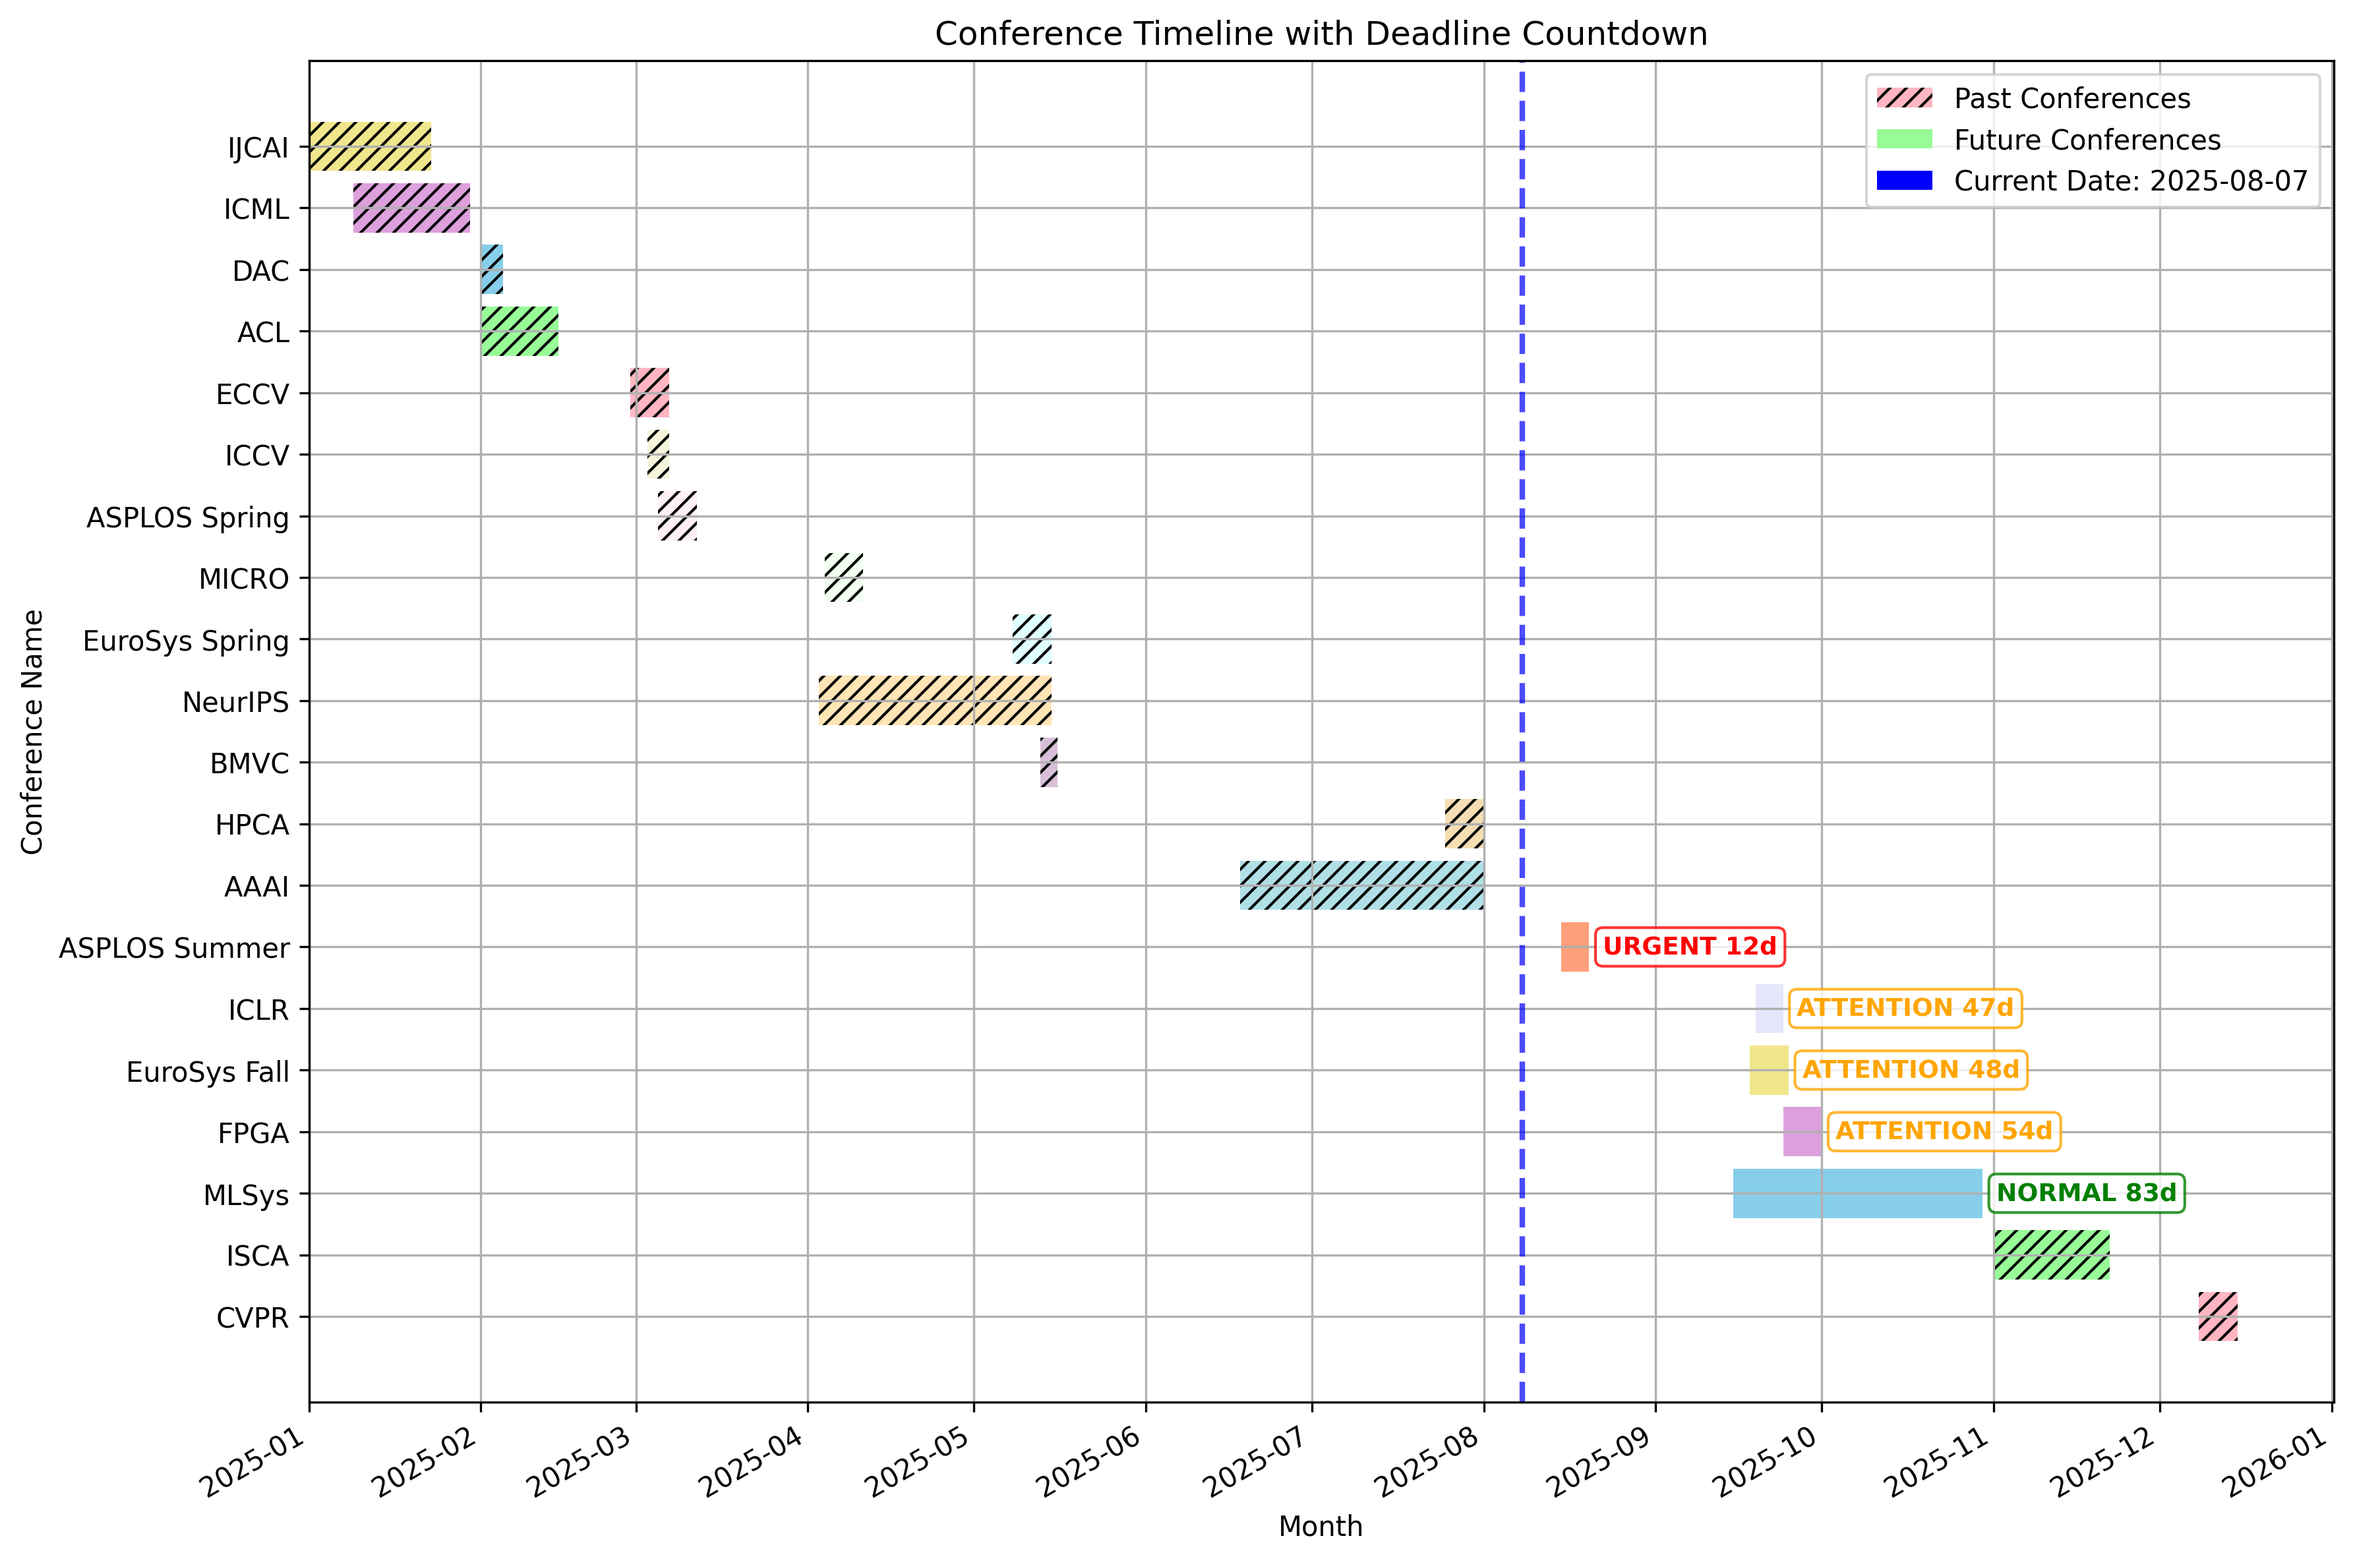
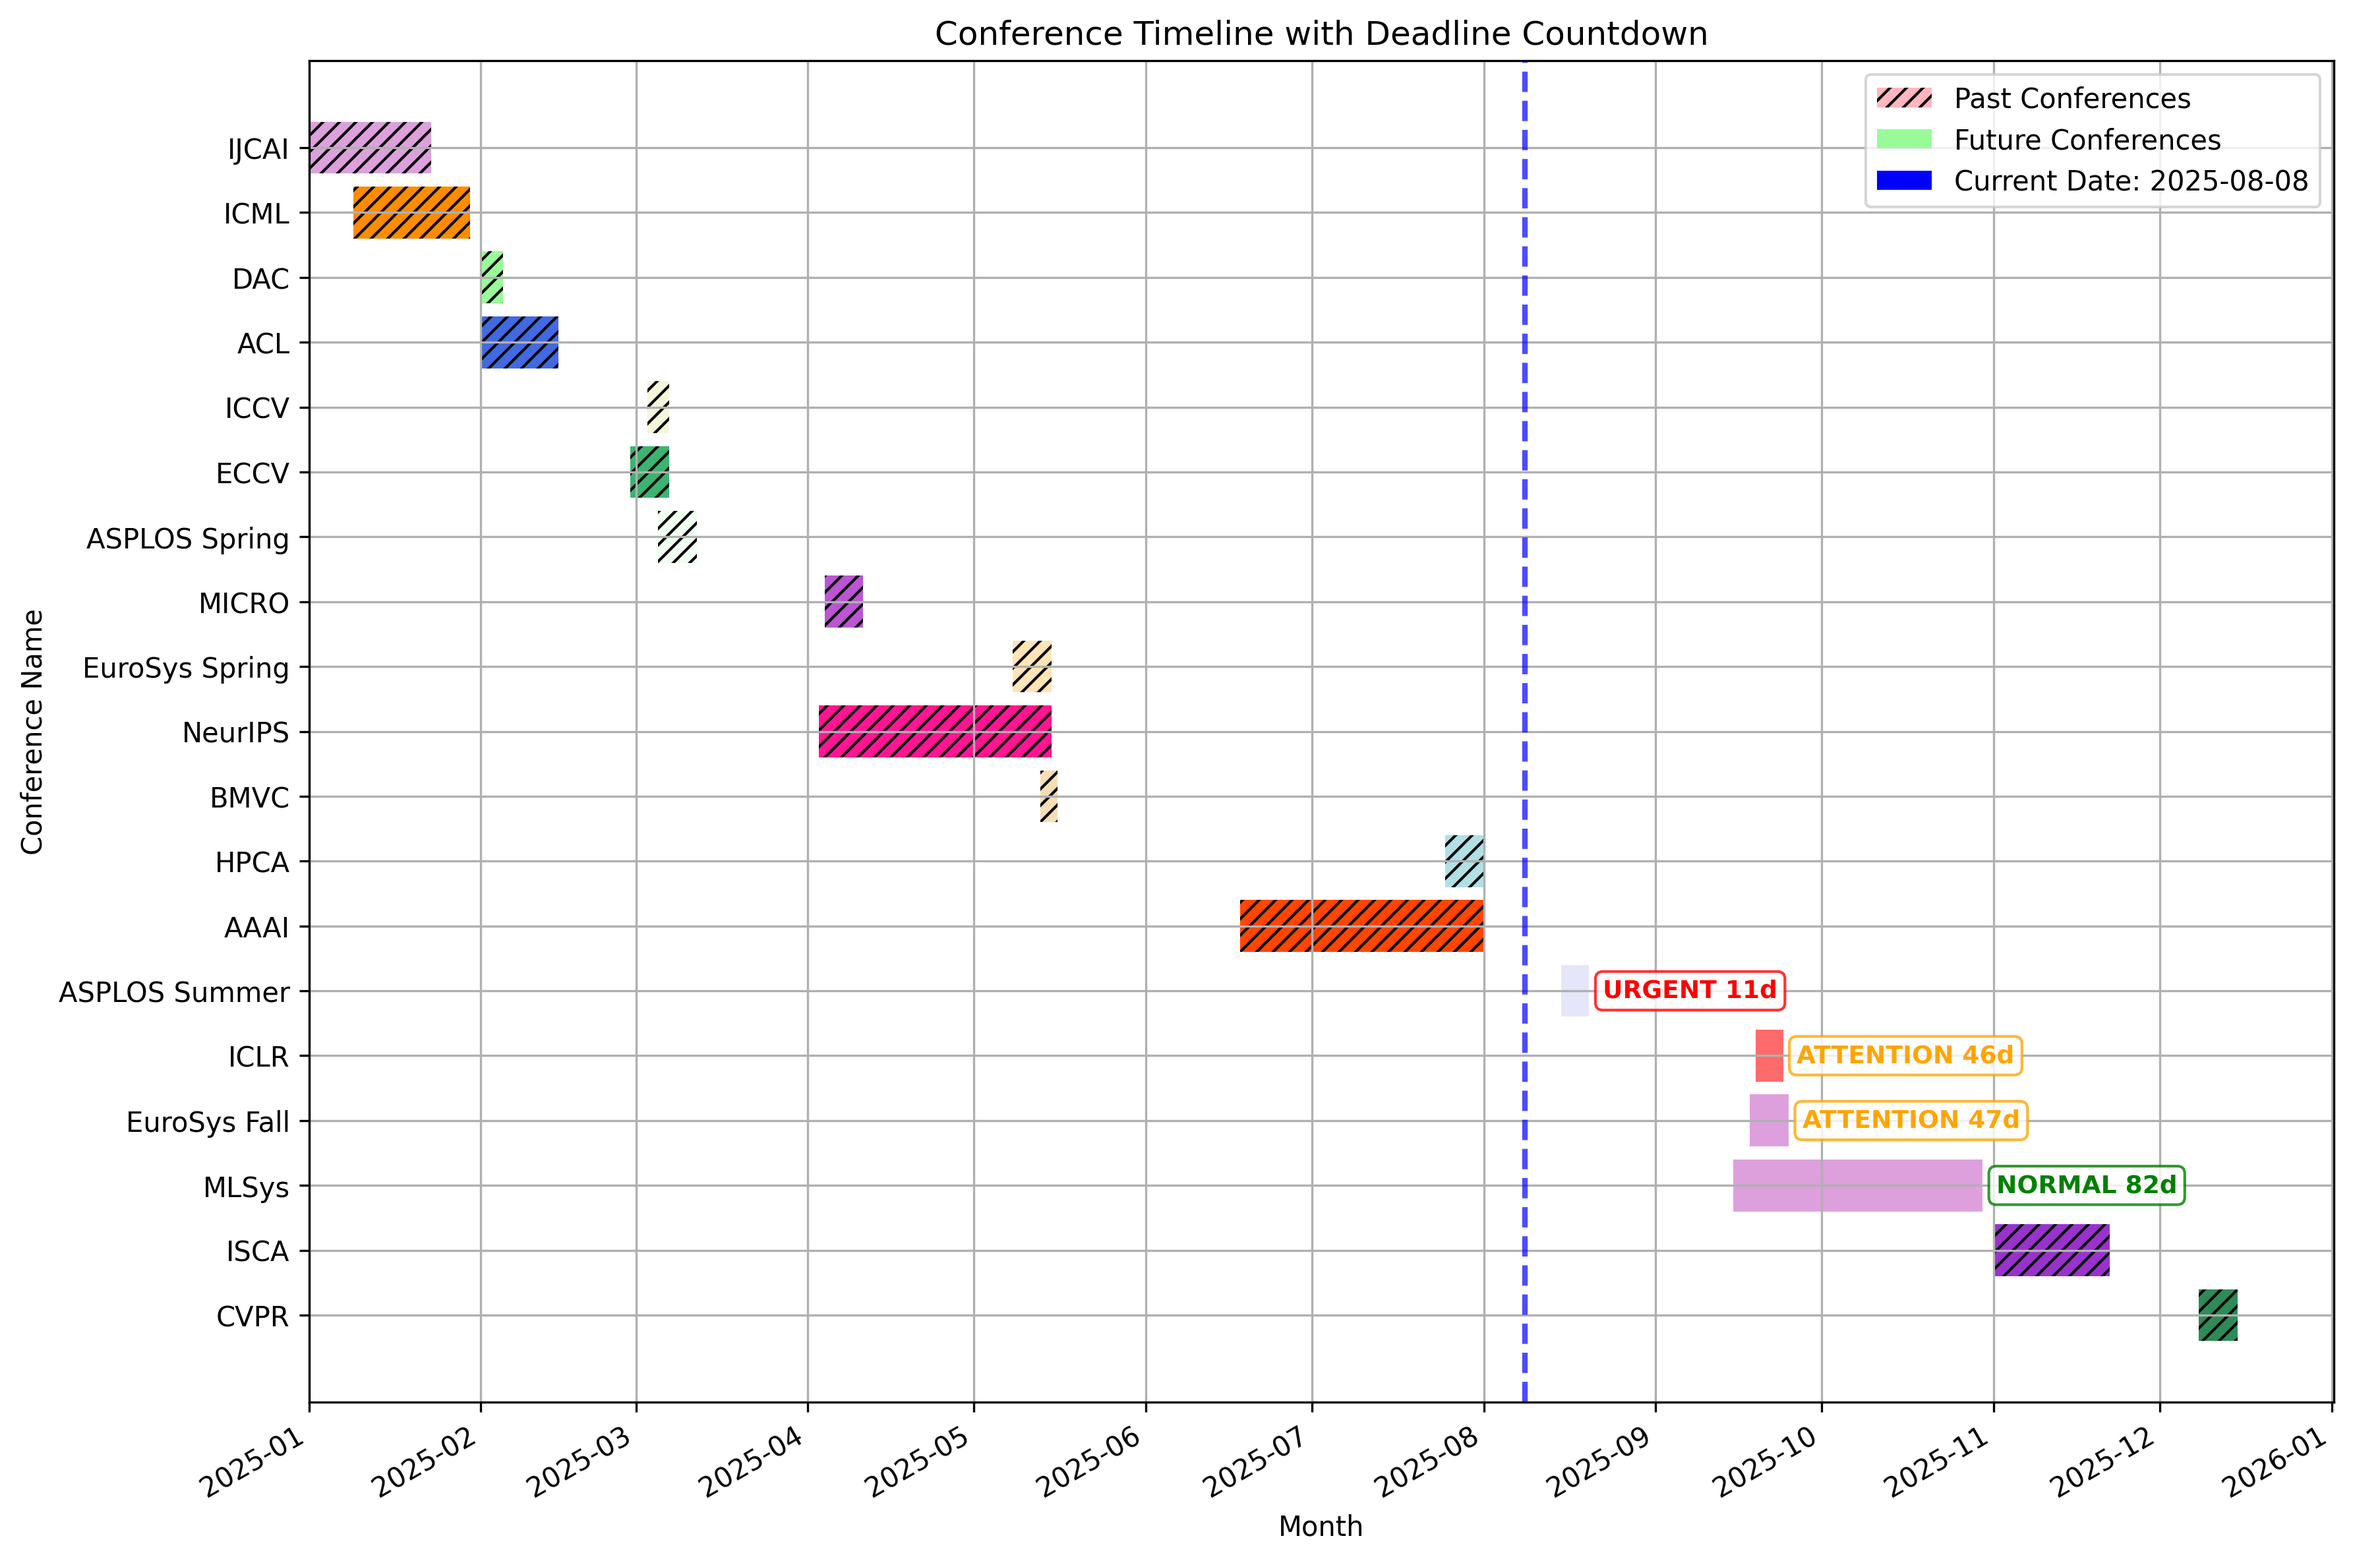
update

diff --git a/scripts/ddl.py b/scripts/ddl.py
@@ -1,11 +1,14 @@
 import json
-from datetime import datetime, timedelta
+from datetime import datetime
 from typing import Any, Dict
 
 import ipdb
 import matplotlib.dates as mdates
 import matplotlib.pyplot as plt
 import pandas as pd
+from matplotlib.patches import Patch
+
+from scripts.generate_paper_list import PUBLISH_COLOR
 
 
 def read_conferences(file_path: str) -> Dict[str, Any]:
@@ -19,38 +22,40 @@ def calculate_time_until_conference(conferences_data: Dict[str, Any]):
     """Calculate time difference from current date to future conferences"""
     conferences = conferences_data.get("conferences", [])
     now_date = datetime.now()
-    
+
     future_conferences = []
-    
+
     for conf in conferences:
         start = conf.get("start", "")
         end = conf.get("end", "")
         name = conf.get("name", "")
         level = conf.get("level", "")
-        
+
         # Parse dates
         try:
             start_date = datetime.strptime(start, "%Y-%m-%d")
             end_date = datetime.strptime(end, "%Y-%m-%d")
-            
+
             # Check if conference is in the future
             if end_date > now_date:
                 # Calculate time difference
                 time_diff = end_date - now_date
                 days_until = time_diff.days
-                
-                future_conferences.append({
-                    "Conference": name,
-                    "Start": start_date,
-                    "End": end_date,
-                    "Days_Until_Deadline": days_until,
-                    "Level": level,
-                    "URL": conf.get("url", "")
-                })
+
+                future_conferences.append(
+                    {
+                        "Conference": name,
+                        "Start": start_date,
+                        "End": end_date,
+                        "Days_Until_Deadline": days_until,
+                        "Level": level,
+                        "URL": conf.get("url", ""),
+                    }
+                )
         except ValueError as e:
             print(f"Error parsing dates for {name}: {e}")
             continue
-    
+
     return pd.DataFrame(future_conferences)
 
 
@@ -79,8 +84,8 @@ def create_conference_timeline(conferences_data: Dict[str, Any]):
             {
                 "Conference": name,
                 "Passed": now_date > end_date,
-                "Start": start_date.replace(year=target_year),
-                "End": end_date.replace(year=target_year),
+                "Start": start_date.replace(year=target_year) if now_date > start_date else start_date,
+                "End": end_date.replace(year=target_year) if now_date > end_date else end_date,
                 "Level": level,
                 "URL": conf.get("url", ""),
             }
@@ -95,22 +100,22 @@ def main():
 
     # Calculate time until future conferences
     future_df = calculate_time_until_conference(conferences_data)
-    
+
     if not future_df.empty:
         # Sort by days until deadline (ascending)
         future_df = future_df.sort_values("Days_Until_Deadline", ascending=True)
-        
+
         print("未来会议截止时间倒计时:")
         print("=" * 80)
         print(f"{'会议名称':<20} {'截止日期':<12} {'剩余天数':<10} {'级别':<8}")
         print("-" * 80)
-        
+
         for _, row in future_df.iterrows():
             conference_name = row["Conference"]
             end_date = row["End"].strftime("%Y-%m-%d")
             days_left = row["Days_Until_Deadline"]
             level = row["Level"]
-            
+
             # Add color coding based on urgency
             if days_left <= 30:
                 urgency = "🔥 紧急"
@@ -118,9 +123,9 @@ def main():
                 urgency = "⚠  注意"
             else:
                 urgency = "📅 正常"
-            
+
             print(f"{conference_name:<20} {end_date:<12} {days_left:<10} {level:<8} {urgency}")
-        
+
         print("=" * 80)
         print(f"总计未来会议数量: {len(future_df)}")
     else:
@@ -160,12 +165,15 @@ def main():
         "#FFF0F5",  # Lavender blush
         "#F5F5DC",  # Beige
     ]
-
     colors = []
     patterns = []
     color_index = 0
     for _, row in df.iterrows():
-        colors.append(soft_colors[color_index % len(soft_colors)])
+        if row["Conference"] in PUBLISH_COLOR:
+            colors.append("#" + PUBLISH_COLOR[row["Conference"]])
+        else:
+            colors.append(soft_colors[color_index % len(soft_colors)])
+
         if row["Passed"]:
             # Past conferences - use diagonal stripes pattern
             patterns.append("////")
@@ -202,18 +210,18 @@ def main():
         days_mapping = {}
         for _, row in future_df.iterrows():
             days_mapping[row["Conference"]] = row["Days_Until_Deadline"]
-        
+
         # Add text annotations on the bars
         for i, (_, row) in enumerate(df.iterrows()):
             if not row["Passed"]:  # Only for future conferences
                 conf_name = row["Conference"]
                 if conf_name in days_mapping:
                     days_left = days_mapping[conf_name]
-                    
+
                     # Position text at the end of the bar
                     text_x = row["End"]
                     text_y = i
-                    
+
                     # Add urgency indicator
                     if days_left <= 30:
                         urgency_text = "URGENT"
@@ -224,7 +232,7 @@ def main():
                     else:
                         urgency_text = "NORMAL"
                         color = "green"
-                    
+
                     # Add text annotation
                     plt.annotate(
                         f"{urgency_text} {days_left}d",
@@ -236,7 +244,7 @@ def main():
                         fontsize=9,
                         fontweight="bold",
                         color=color,
-                        bbox=dict(boxstyle="round,pad=0.3", facecolor="white", alpha=0.8, edgecolor=color)
+                        bbox=dict(boxstyle="round,pad=0.3", facecolor="white", alpha=0.8, edgecolor=color),
                     )
 
     # Format x-axis to show months
@@ -251,7 +259,6 @@ def main():
     plt.grid(True)
 
     # Create custom legend for conference status
-    from matplotlib.patches import Patch
 
     legend_elements = [
         Patch(facecolor="#FFB6C1", hatch="////", label="Past Conferences"),
